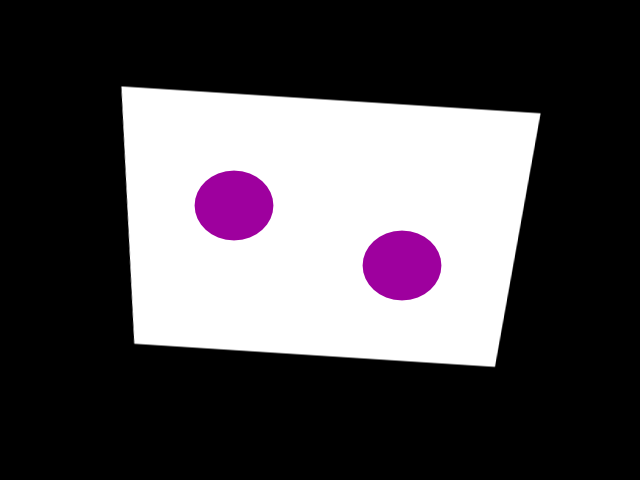
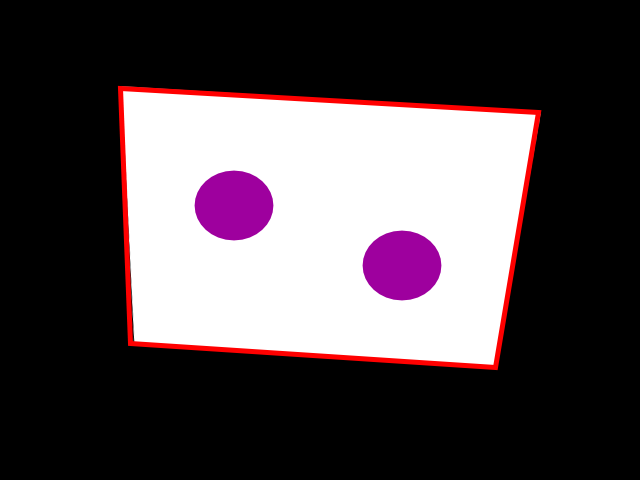
Full Screen

Changed region(s): [[0.1875, 0.1562, 0.8438, 0.7812]]

diff --git a/ColorCorrection/main.cpp b/ColorCorrection/main.cpp
@@ -20,15 +20,16 @@ bool fromFile();
 bool fromKinect();
 
 bool detectSurface();
+void correct();
 bool exec(char code);
 
 int width = 640; // Kinect v1 height = 640
 int height = 480; // Kinect v1 width =  480
 unsigned int bufferSize = width * height * 4 * sizeof(unsigned char);
 
-Mat orig;
-Mat mask;
+Mat src;
 
+Mat mask;
 
 int main(int argc, char** argv) {
 	// c = Camera
@@ -46,6 +47,7 @@ int main(int argc, char** argv) {
 	
 	return 0;
 }
+
 
 bool exec(char code) {
 	bool cmd = false;
@@ -82,18 +84,44 @@ void setLabel(cv::Mat& im, const std::string label, std::vector<cv::Point>& cont
 	cv::putText(im, label, pt, fontface, scale, CV_RGB(0, 0, 0), thickness, 8);
 }
 
+// https://gist.github.com/DaniilTomilow/1088bca80f5a1f449f15
+void GetDesktopResolution(int& width, int& height)
+{
+	DEVMODE mode;
+	mode.dmSize = sizeof(mode);
+	EnumDisplaySettings(NULL, ENUM_CURRENT_SETTINGS, &mode);
+
+	width = mode.dmPelsWidth;
+	height = mode.dmPelsHeight;
+
+	cout << "5: Width: " << width << "; height: " << height << '\n';
+}
+
 /**
 * Detect projector surface.
 * Keystone korrection.
 * https://github.com/bsdnoobz/opencv-code/blob/master/shape-detect.cpp
+* https://github.com/bsdnoobz/opencv-code/blob/master/quad-segmentation.cpp
 */
 bool detectSurface() {
-	// Convert to grayscale
-	cvtColor(orig, mask, cv::COLOR_BGR2GRAY);
+	// medianBlur(bgr_image, bgr_image, 3);
+
+	// Convert to HSV
+	Mat hsv_image;
+	cvtColor(src, hsv_image, cv::COLOR_BGR2HSV);
+
+	Mat lower_red_hue_range, upper_red_hue_range;
+	inRange(hsv_image, cv::Scalar(0, 100, 100), cv::Scalar(10, 255, 255), lower_red_hue_range);
+	inRange(hsv_image, cv::Scalar(160, 100, 100), cv::Scalar(179, 255, 255), upper_red_hue_range);
+
+	// Combine the above two images
+	addWeighted(lower_red_hue_range, 1.0, upper_red_hue_range, 1.0, 0.0, mask);
+
+	//cvtColor(red_hue_image, mask, cv::COLOR_HSV);
 	//Mat blur;
 	//GaussianBlur(mask, blur, cv::Size(7, 7), 1.5, 1.5);
 	Mat tre;
-	threshold(mask, tre, 180, 255,CV_THRESH_BINARY );
+	threshold(mask, tre, 180, 255, CV_THRESH_BINARY);
 
 	Mat canny;
 	Canny(tre, canny, 0, 50, 5);
@@ -105,8 +133,7 @@ bool detectSurface() {
 		return false;
 
 	Mat dst;
-	Mat transformed; // Ou transformed mask
-	orig.copyTo(dst);
+	src.copyTo(dst);
 
 	int largest_contour_index = 0;
 	int largest_area = 0;
@@ -150,7 +177,7 @@ bool detectSurface() {
 	squre_pts.push_back(Point2f(width, height));
 
 	Mat transmtx = getPerspectiveTransform(quad_pts, squre_pts);
-	warpPerspective(dst, transformed, transmtx, orig.size());
+	warpPerspective(src, mask, transmtx, src.size());
 
 	Point P1 = contours_poly[0];
 	Point P2 = contours_poly[1];
@@ -164,13 +191,28 @@ bool detectSurface() {
 
 	rectangle(dst, boundRect, Scalar(0, 255, 0), 1, 8, 0);
 
-	imshow("Surface", transformed);
+	int width = 0;
+	int height = 0;
+	GetDesktopResolution(width, height);
+
+	namedWindow("Mask", CV_WINDOW_NORMAL);
+	setWindowProperty("Mask", CV_WND_PROP_FULLSCREEN, CV_WINDOW_FULLSCREEN);
+
+	resize(mask, mask, cv::Size(width, height));
+
+	imshow("Mask", mask);
 	imshow("dst", dst);
-	imshow("tre", tre);
+
+	correct();
 
 	waitKey(0);
 
 	return true;
+}
+
+void correct() {
+	// 1. Invert Mask
+	subtract(Scalar::all(255), mask, mask);
 }
 
 
@@ -197,9 +239,9 @@ bool fromCamera() {
 
 		if (k == 27) break; // ECS
 		else if (k == 'c') {
-			cv::resize(frame, orig, cv::Size(width, height));
-			imwrite("Images/test2.png", orig);
-			cv::destroyWindow("Camera");
+			resize(frame, src, cv::Size(width, height));
+			imwrite("Images/test2.png", src);
+			destroyWindow("Camera");
 			return true;
 		}
 	}
@@ -209,9 +251,9 @@ bool fromCamera() {
 }
 
 bool fromFile() {
-	orig = imread("Images/test2.png", CV_LOAD_IMAGE_COLOR);   // Read the file
+	src = imread("Images/test1.png", CV_LOAD_IMAGE_COLOR);   // Read the file
 
-	if (!orig.data)                              // Check for invalid input
+	if (!src.data)                              // Check for invalid input
 	{
 		cout << "Could not open or find the image" << std::endl;
 		return false;
@@ -259,7 +301,7 @@ bool fromKinect() {
 		IColorFrame* pColorFrame = nullptr;
 		hResult = pColorReader->AcquireLatestFrame(&pColorFrame);
 		if (SUCCEEDED(hResult)) {
-			pColorFrame->CopyConvertedFrameDataToArray(bufferSize, reinterpret_cast<BYTE*>(orig.data), ColorImageFormat::ColorImageFormat_Bgra);
+			pColorFrame->CopyConvertedFrameDataToArray(bufferSize, reinterpret_cast<BYTE*>(src.data), ColorImageFormat::ColorImageFormat_Bgra);
 		}
 	//}
 }
